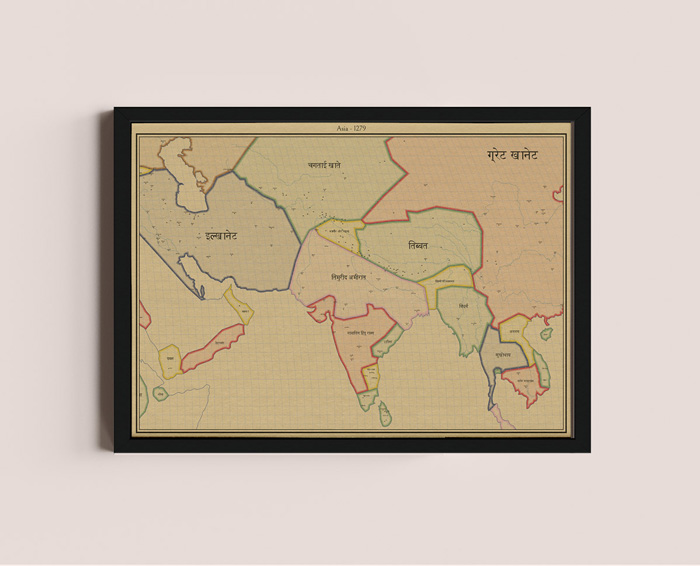
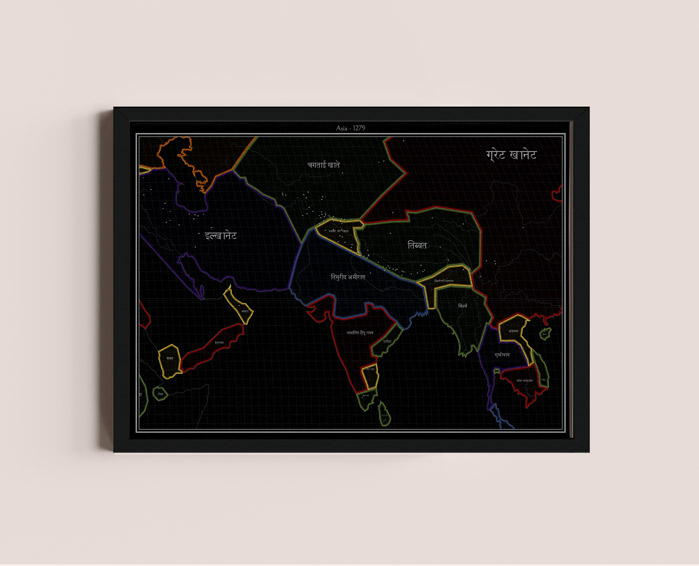
add more explicit example of color change

diff --git a/about.html b/about.html
@@ -306,7 +306,7 @@
             <h5>Starting from €30</h5>
             <button>Start from Europe</button>
           </a>
-          <a href="/?font=Bellefair&direction=landscape&sizeValue=60x40&sizeLabel=60cm+x+40cm&year=1279&projection=Kavrayskiy7&mountains=true&cities=true&graticuleCollection=true&rivers=true&k=4.725067952607121&x=-3074.3612182352335&y=34.534959625959345&info=United+Provinces+of+La+Plata&type=country&language=hi&title=Asia+-+1279&style=defaultColors&borderWidth=14&citySize=2.1&graticuleGapSize=12">
+          <a href="/?font=Bellefair&direction=landscape&sizeValue=60x40&sizeLabel=60cm+x+40cm&year=1279&projection=Kavrayskiy7&mountains=true&cities=true&graticuleCollection=true&rivers=true&k=4.725067952607121&x=-3074.3612182352335&y=34.534959625959345&info=United+Provinces+of+La+Plata&type=country&language=hi&title=Asia+-+1279&style=darkColors&borderWidth=14&citySize=2.1&graticuleGapSize=12">
             <img
               width="374"
               height="302"
